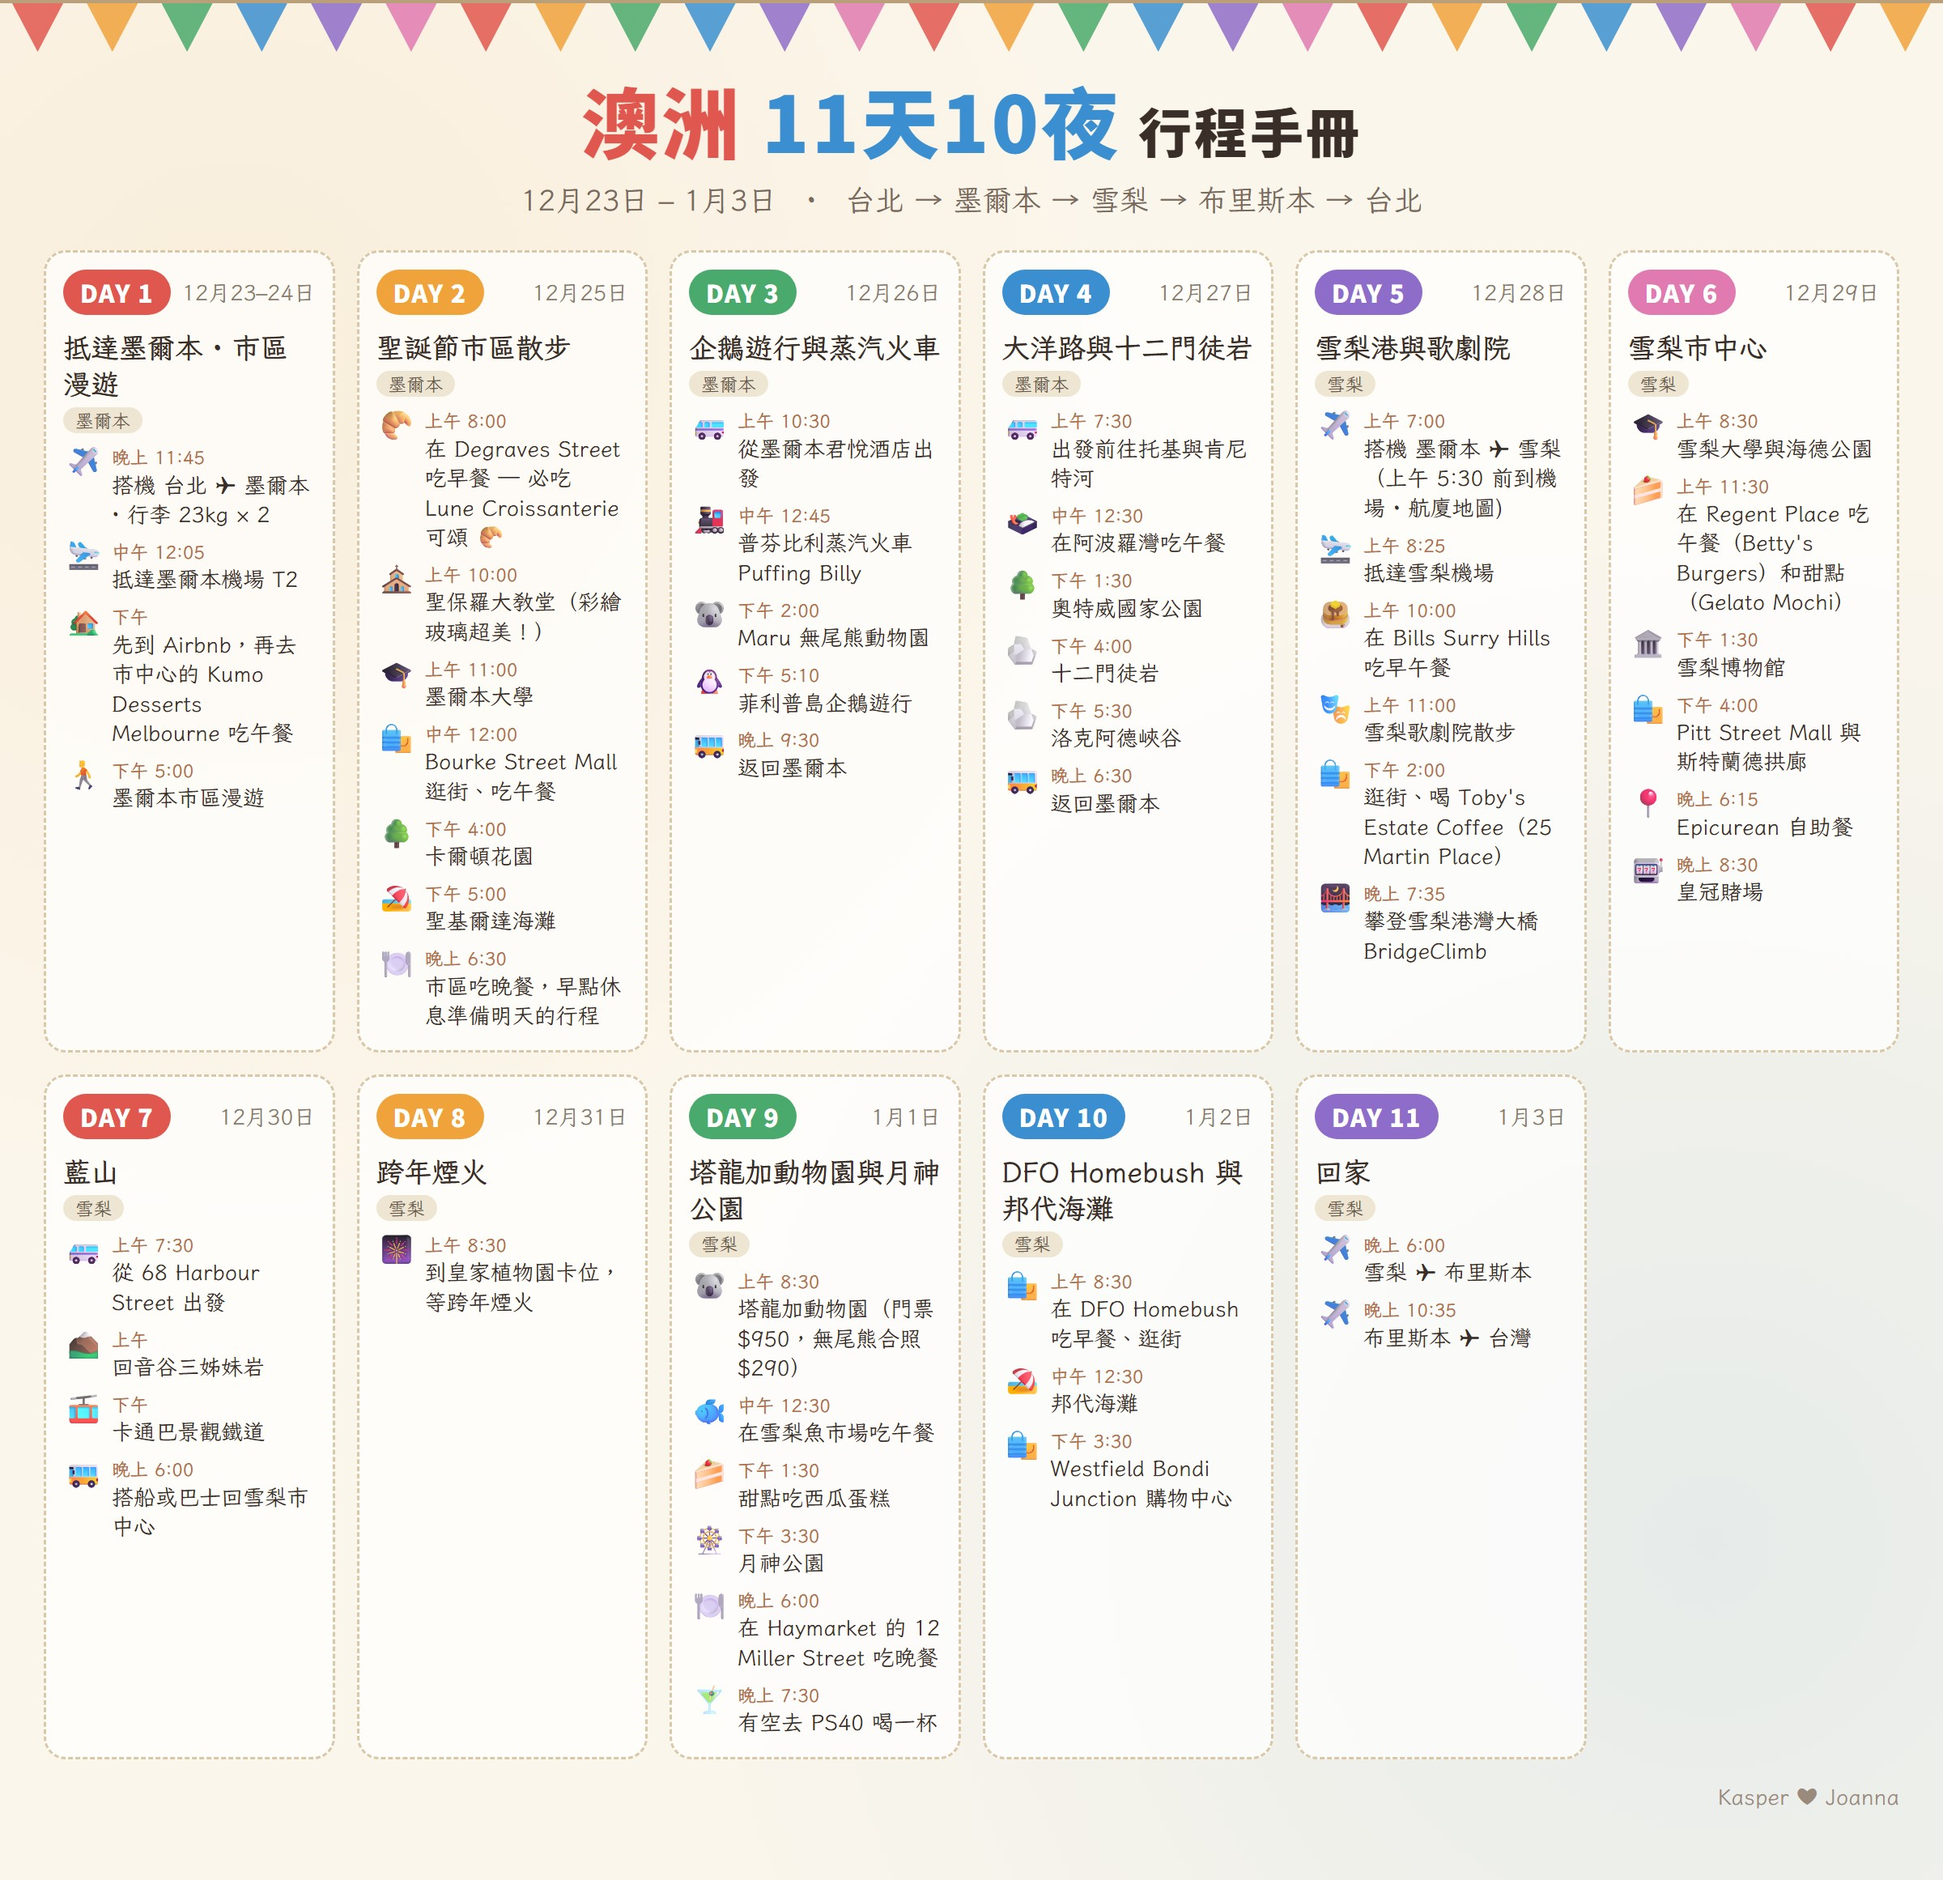
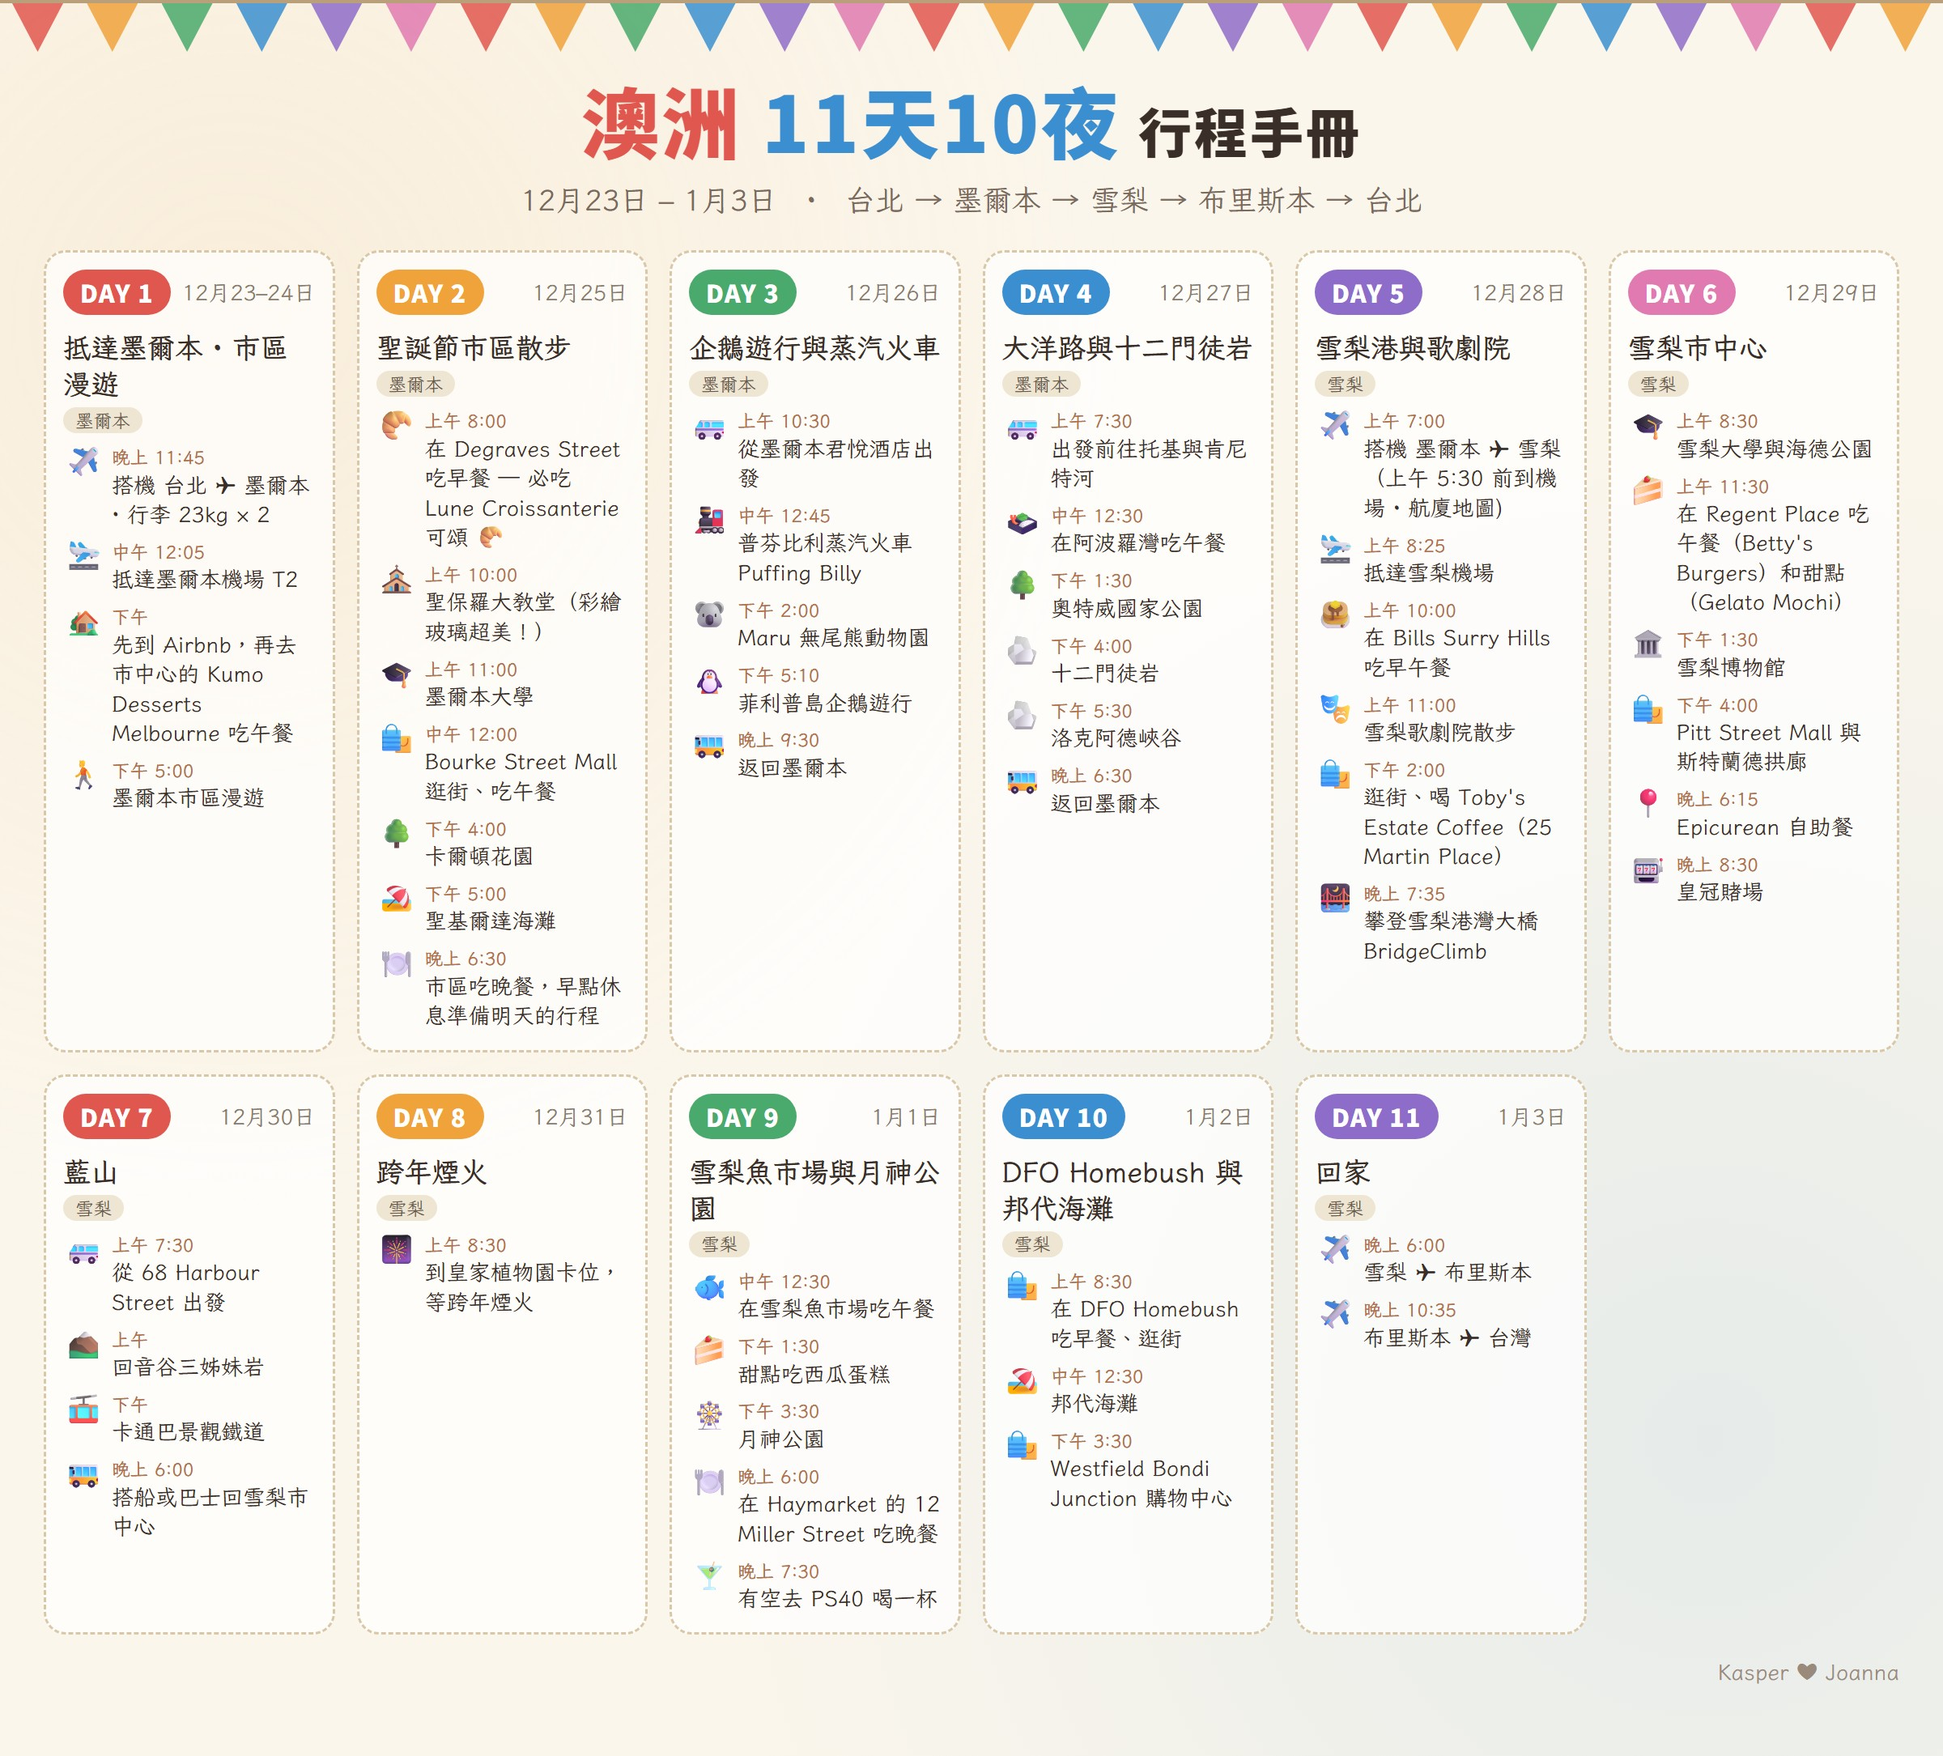
Remove Taronga Zoo (not visited) from Australia Day 9; footer without links
Day 9 is now 雪梨魚市場與月神公園 with the Luna Park cover; itinerary image redrawn.

diff --git a/index.html b/index.html
@@ -10,7 +10,7 @@
   <link href="https://fonts.googleapis.com/css2?family=Fraunces:ital,opsz,wght@1,9..144,300&family=Manrope:wght@400;500;600;700;800&family=Noto+Sans+TC:wght@400;500;600;700&display=swap" rel="stylesheet" />
   <link rel="icon" type="image/png" href="favicon.png" />
   <link rel="apple-touch-icon" href="apple-touch-icon.png" />
-  <link rel="stylesheet" href="style.css?v=15" />
+  <link rel="stylesheet" href="style.css?v=16" />
 </head>
 <body>
   <a class="skip-link" href="#main">跳到主要內容</a>
@@ -32,9 +32,6 @@
   <footer class="site-footer">
     <div class="wrap footer-inner">
       <p class="sig">Kasper <span class="heart" aria-hidden="true">&#10084;</span><span class="visually-hidden">與</span> Joanna</p>
-      <nav class="footer-nav" aria-label="頁尾">
-        <a href="#/">首頁</a><a href="#/australia">澳洲</a><a href="#/okinawa">沖繩</a><a href="#/nagoya">名古屋</a>
-      </nav>
       <p>我們的旅行回憶，一天一頁。</p>
     </div>
   </footer>
@@ -61,7 +58,7 @@
     <button class="lb-btn lb-next" type="button" aria-label="下一張" data-lb="next"><svg viewBox="0 0 24 24" fill="none" stroke="currentColor" stroke-width="2" stroke-linecap="round" stroke-linejoin="round"><path d="M9 6l6 6-6 6"/></svg></button>
   </dialog>
 
-  <script src="trips.js?v=15"></script>
-  <script src="script.js?v=15"></script>
+  <script src="trips.js?v=16"></script>
+  <script src="script.js?v=16"></script>
 </body>
 </html>

diff --git a/trips.js b/trips.js
@@ -474,20 +474,9 @@ window.TRIPS = [
       {
         "date": "1月1日",
         "city": "雪梨",
-        "title": "🦘 塔龍加動物園與月神公園",
-        "cover": "Pictures/Australia/Day9/taronga-zoo.jpg",
+        "title": "🎡 雪梨魚市場與月神公園",
+        "cover": "Pictures/Australia/Day9/luna-park.avif",
         "timeline": [
-          {
-            "time": "上午 8:30",
-            "text": "塔龍加動物園（門票 $950，無尾熊合照 $290）",
-            "photos": [
-              {
-                "src": "Pictures/Australia/Day9/taronga-zoo.jpg",
-                "alt": "塔龍加動物園，對岸就是歌劇院",
-                "caption": "塔龍加動物園，對岸就是歌劇院"
-              }
-            ]
-          },
           {
             "time": "中午 12:30",
             "text": "在雪梨魚市場吃午餐",

diff --git a/style.css b/style.css
@@ -271,9 +271,6 @@ dialog.lightbox.dragging img { transition: none; cursor: grabbing; }
 .footer-inner p { margin: 0; }
 .footer-inner .sig { font-family: var(--font-display); font-style: italic; font-weight: 300; font-size: 1.3rem; color: var(--ink); }
 .footer-inner .sig .heart { color: var(--accent); font-style: normal; }
-.footer-nav { display: flex; gap: 2px; flex-wrap: wrap; margin-left: -12px; }
-.footer-nav a { display: inline-flex; align-items: center; min-height: 44px; padding: 0 12px; color: var(--ink-2); text-decoration: none; font-weight: 600; }
-.footer-nav a:hover { color: var(--accent-deep); }
 
 /* ============================================================
    PHONE: rail → "Day 3 of 11 ▾" selector + bottom sheet + sticky Prev/Next bar

diff --git a/CLAUDE.md b/CLAUDE.md
@@ -45,7 +45,7 @@ Pictures/
 - **Day pages look the same for every trip:** the itinerary list (time + where we went, no photos in it) on top, then one photo grid: the itinerary's photos first in order, then any other photos in the day folder.
 - **Day photos** use one grid (`photoGrid()` in script.js) of **square thumbnails** cropped toward the top (`object-position: 50% 30%`, keeps faces): 3 per row, 2 photos fill the row as halves, and the last row never holds a lone photo (13 → 3·3·3·2·2). Clicking opens the whole photo in the lightbox. The user compared 7 layouts (blurred fill, matte, polaroid prints, filmstrip, …) and chose this one.
 - **Schedule pages lead with an itinerary image** (one column per day, icon per stop, in the style of the user's original AI-made Okinawa card). All three images are drawn by `tools/itinerary_poster.py` from trips.js, so the Chinese text is exact; re-run it when a schedule changes. The Nagoya PDF stays below as an attachment. No ticket or booking screenshots on the site (user asked to remove them; they also show booking / frequent-flyer numbers).
-- **Day content comes from each trip's schedule** in `Pictures/<Trip>/Schedule/`: Okinawa `schedule.txt` (the user later confirmed they did **not** go to 美國村 or 青之洞窟; Day 4 morning was 萬座毛, seen in the photos), Nagoya the itinerary PDF (overview table: dates, highlights, meals), Australia the original itinerary. Day titles and timelines in trips.js follow these files; when a schedule changes, update trips.js to match.
+- **Day content comes from each trip's schedule** in `Pictures/<Trip>/Schedule/`: Okinawa `schedule.txt` (the user later confirmed they did **not** go to 美國村 or 青之洞窟; Day 4 morning was 萬座毛, seen in the photos), Nagoya the itinerary PDF (overview table: dates, highlights, meals), Australia the original itinerary (the user confirmed they did **not** go to 塔龍加動物園 Taronga Zoo on Day 9). Day titles and timelines in trips.js follow these files; when a schedule changes, update trips.js to match.
 - **Day covers:** a day's `cover` in trips.js is the photo of that day's main event *per the schedule* (overview card), chosen by looking at the photos — not just the first file. If the main event has no photos (Okinawa Day 2 paragliding), use the best photo of the day's other headline event. Trip `cover` (hero banner, full screen width; Okinawa and Nagoya use free-licensed Wikimedia Commons photos of the trip's signature sight — Kouri Bridge, Shirakawa-go — with `coverCredit` shown on the banner and under the home trip cards, as CC BY requires) must be a landscape photo, ideally 2560px wide (resize larger originals to 2560px JPEG, no EXIF); smaller looks blurry. Current picks: Okinawa D1 暖暮拉麵 #12, D2 波上宮 #55, D3 瀨長島夕陽 #33, D4 古宇利島 #49, D5 A&W #11, Days without `cover` use the first photo in their folder.
 - **Lightbox:** clicking any `figure img` or schedule image in `<main>` opens `<dialog class="lightbox">` with prev/next.
 
